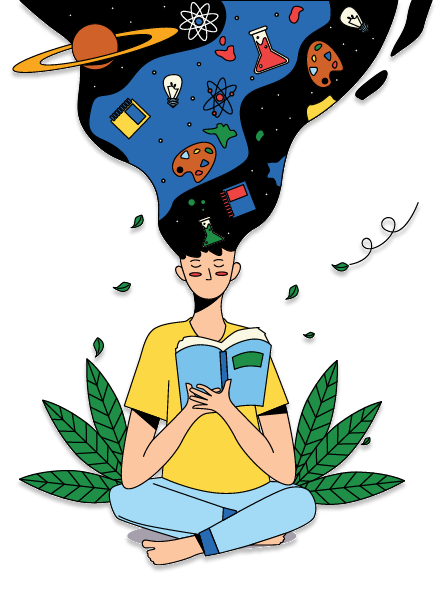
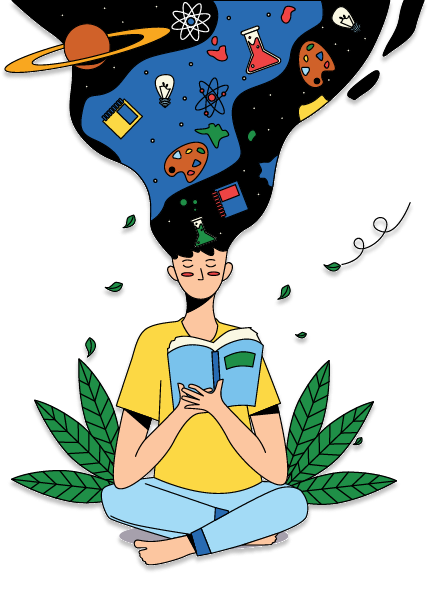
Fix home page image

diff --git a/src/scenes/Home.jsx b/src/scenes/Home.jsx
@@ -35,8 +35,8 @@ const Home = () => {
       <Box
         component="img"
         sx={{
-          height: 600,
-          width: "auto",
+          height: { xs: "auto", xl: "auto" },
+          width: { xs: "100%", xl: "75%" },
         }}
         alt="boy-reading-a-book"
         src="/assets/meditation.png"
@@ -57,7 +57,7 @@ const Home = () => {
             placeholder="Search for a word"
             sx={{
               mt: 4,
-              mb: 4,
+              mb: 3,
               backgroundColor: "white",
               borderRadius: 2,
               boxShadow: "0px 10px 35px rgba(0, 0, 0, 0.05)",
@@ -77,6 +77,7 @@ const Home = () => {
         sx={{
           borderRadius: 2,
           p: 2,
+          mb: 5,
           color: "#fff",
           // background: "linear-gradient(287deg, #f6d961 1%,#458d4f 56%);",
           background: "#EDAB43",

diff --git a/src/App.js b/src/App.js
@@ -34,11 +34,7 @@ export const App = () => {
   return (
     <ThemeProvider theme={theme}>
       <CssBaseline />
-      <Grid
-        container
-        sx={{ p: 2, mt: { xs: 0, sm: 0 } }}
-        justifyContent="center"
-      >
+      <Grid container sx={{ mt: { xs: 0, sm: 0 } }} justifyContent="center">
         <Grid item xs={12} sm={8} md={5} lg={4}>
           <Router>
             <Route exact path="/">

diff --git a/src/theme.js b/src/theme.js
@@ -31,7 +31,7 @@ export default createTheme({
       flexDirection: "column",
       alignItems: "center",
       justifyContent: "center",
-      height: "70vh",
+      height: "72vh",
     },
   },
 });
